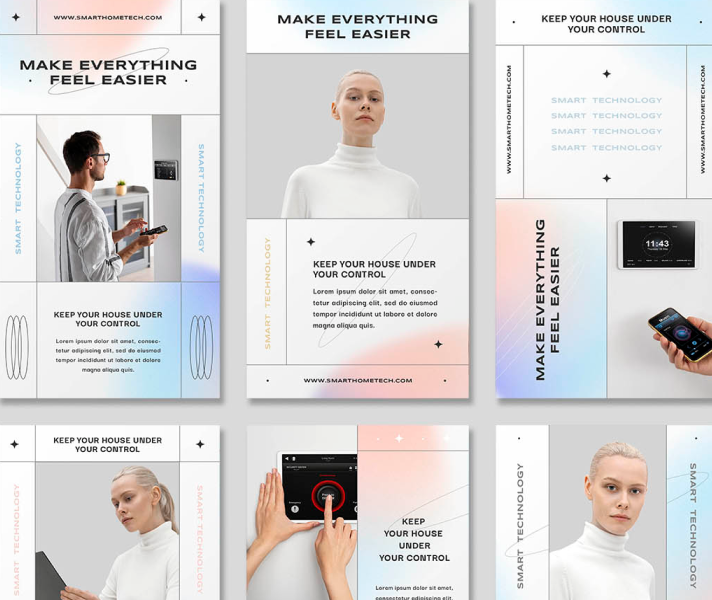
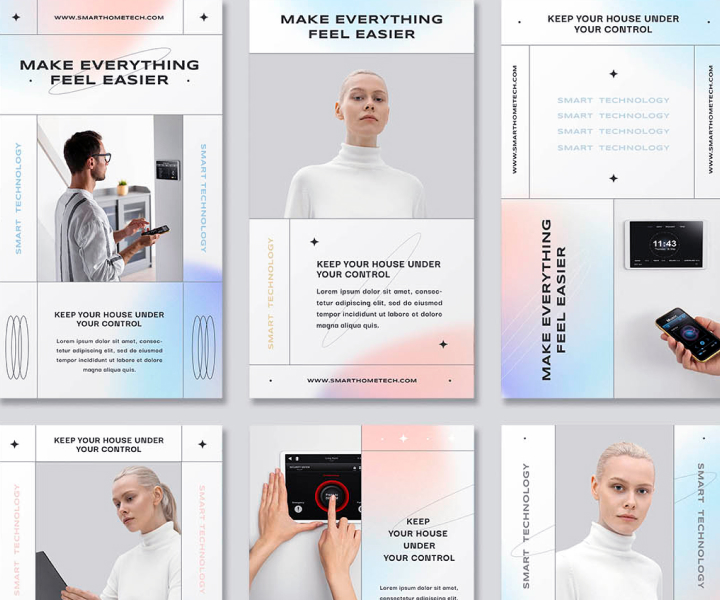
1

diff --git a/portfolio.html b/portfolio.html
@@ -423,7 +423,7 @@
                     media="(max-width: 767px)"
                   />
                   <img
-                    src="./images/Instagram-stories.jpg" 
+                    src="./images/instagramstories.jpg" 
                     alt="Design" 
                     width="360" 
                   />
